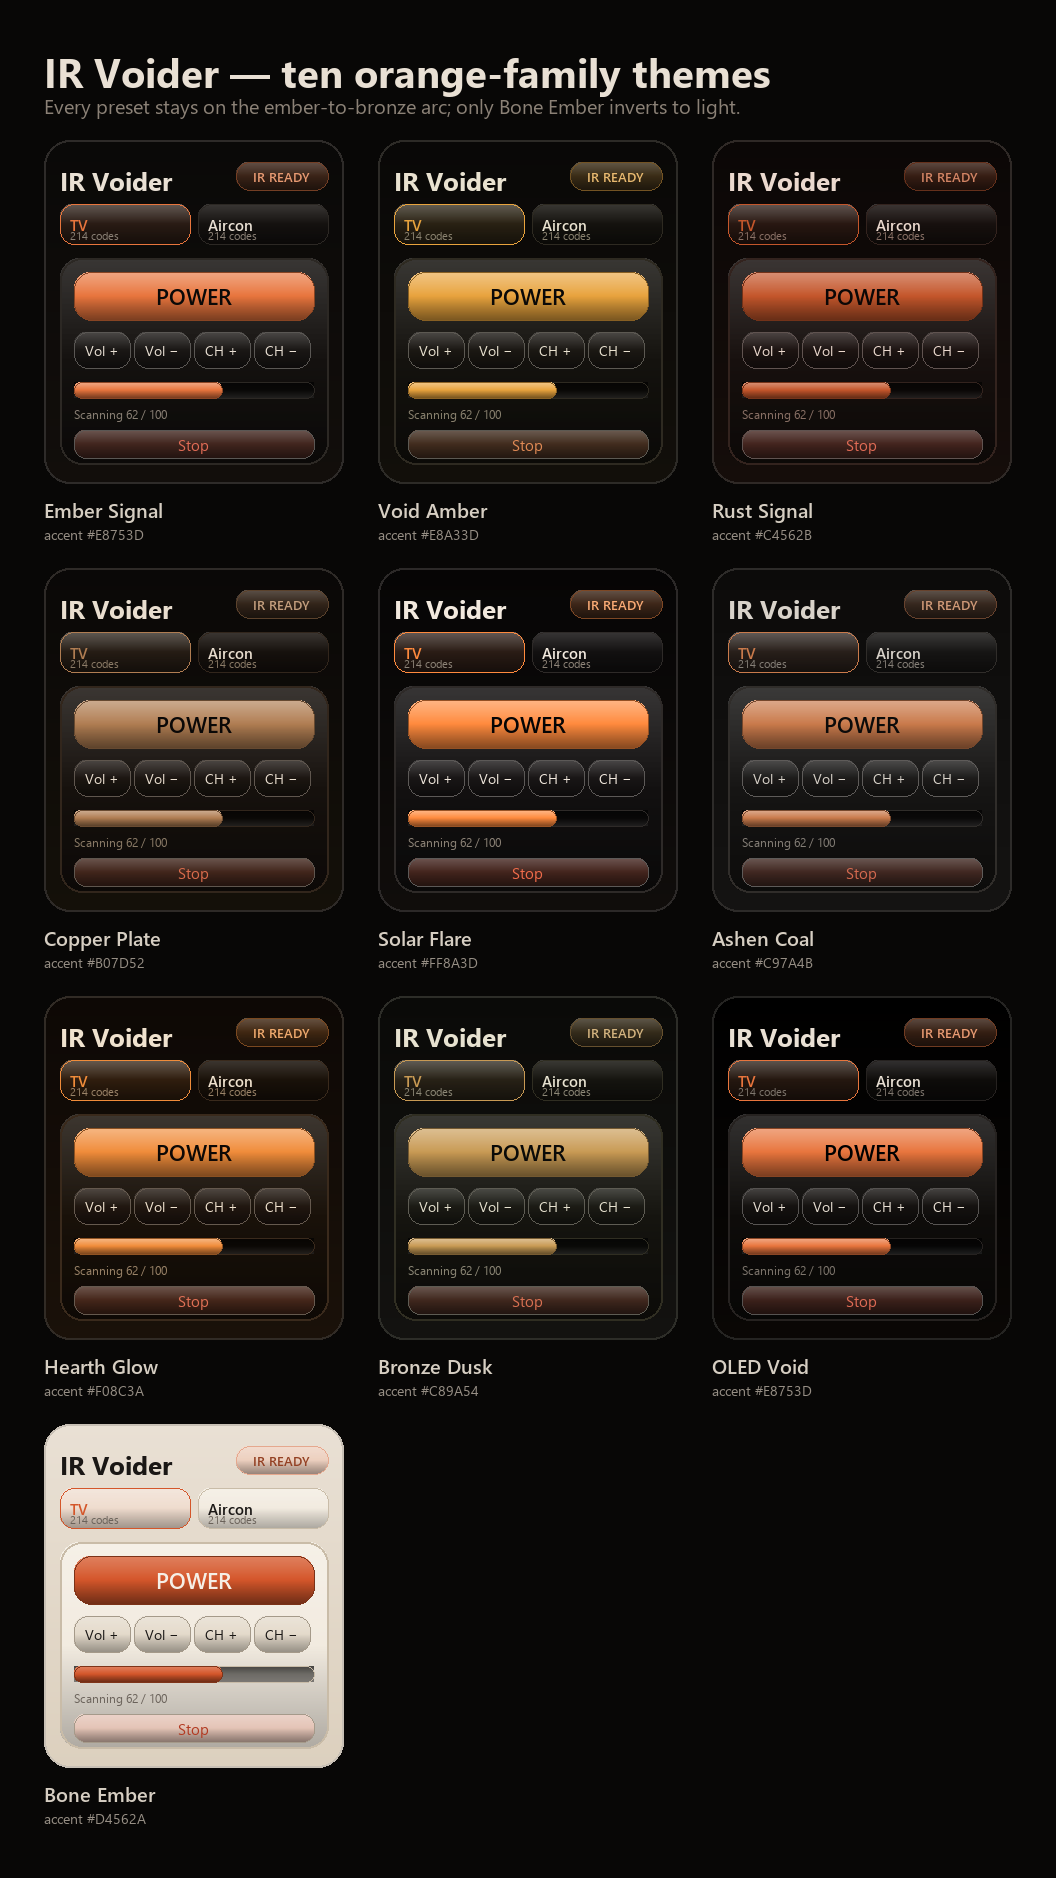
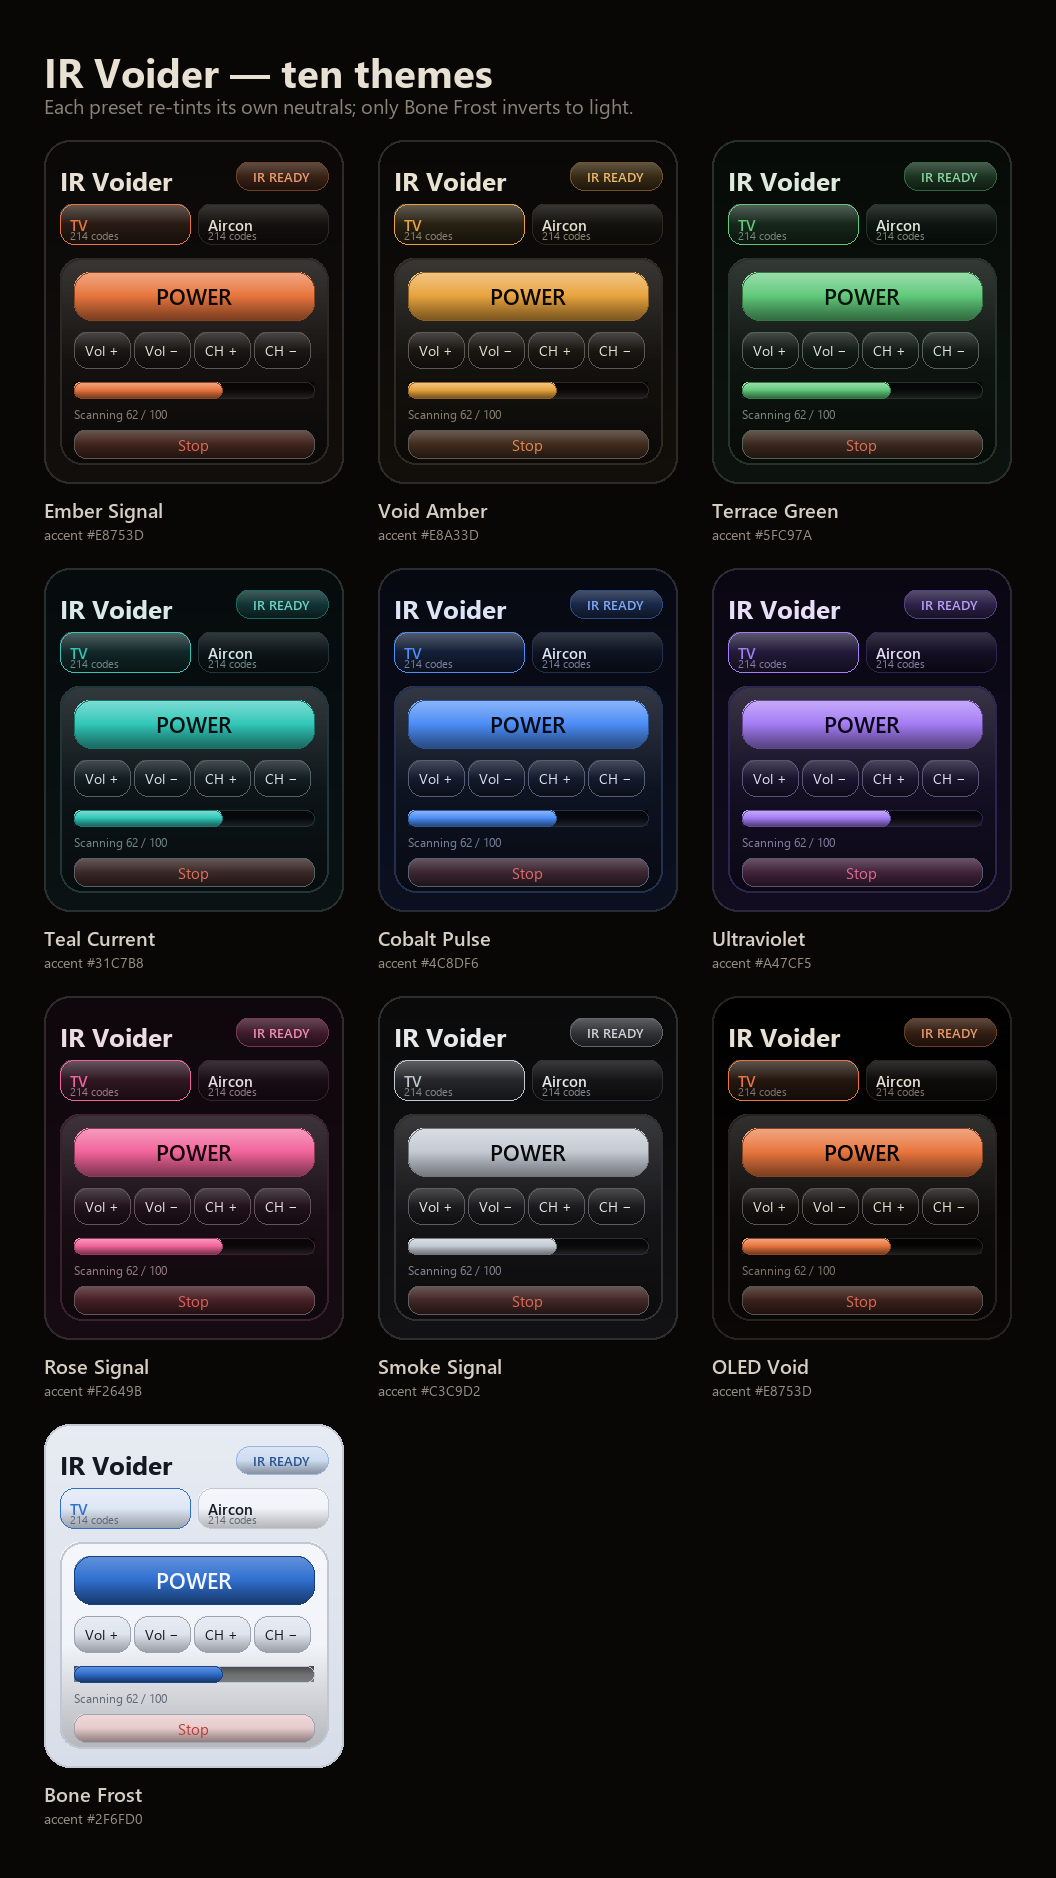
feat: spread the ten themes across colours, not just orange
Ten ember variants read as one theme with the brightness nudged. Each preset now
owns a hue and its matching neutrals, so a blue accent sits on blue-black cards
instead of a warm card with a cold button. Bone Frost is the light variant, so
AppTheme.Light follows it rather than the old warm bone.

diff --git a/app/src/main/java/com/kylem/remote/Palette.java b/app/src/main/java/com/kylem/remote/Palette.java
@@ -13,8 +13,8 @@ import android.view.Window;
 import android.view.WindowInsetsController;
 
 /**
- * The ten orange-family themes. Every preset keeps its neutrals warm and its accent somewhere on
- * the ember-to-bronze arc, so switching themes never leaves the app's identity.
+ * The ten themes. Each one carries its own neutrals, so a blue accent sits on blue-black
+ * surfaces rather than on a warm card with a cold button. Ember Signal stays the default.
  */
 public final class Palette {
 
@@ -29,38 +29,38 @@ public final class Palette {
                     0xFF090807, 0xFF120F0A, 0xFF14120E, 0xFF1B1813, 0xFF2E2A21,
                     0xFFE8A33D, 0xFFB58443, 0xFFE9E2D0, 0xFF8B8370,
                     0xFFE08A55, 0xFFAEC48A, 0xFF0A0908),
-            new Palette("Rust Signal",
-                    0xFF0B0706, 0xFF150D0A, 0xFF17100E, 0xFF1D1412, 0xFF33231E,
-                    0xFFC4562B, 0xFF8E4526, 0xFFEBD9CE, 0xFF8A7166,
-                    0xFFE06B55, 0xFFB7C48A, 0xFF0B0706),
-            new Palette("Copper Plate",
-                    0xFF0A0807, 0xFF141009, 0xFF16110D, 0xFF1C1611, 0xFF32261C,
-                    0xFFB07D52, 0xFFD9A268, 0xFFE9DECF, 0xFF8B7B67,
-                    0xFFD96B4B, 0xFFB7BE8A, 0xFF0A0807),
-            new Palette("Solar Flare",
-                    0xFF060505, 0xFF100D0B, 0xFF121010, 0xFF191616, 0xFF2E2A28,
-                    0xFFFF8A3D, 0xFFFFB067, 0xFFF2E9DE, 0xFF8E8478,
-                    0xFFF06B4A, 0xFFB7C48A, 0xFF060505),
-            new Palette("Ashen Coal",
-                    0xFF0C0B0A, 0xFF141312, 0xFF161514, 0xFF1D1B1A, 0xFF302D2A,
-                    0xFFC97A4B, 0xFF9A6A45, 0xFFD9D3CA, 0xFF857F77,
-                    0xFFD4694F, 0xFFA9B582, 0xFF0C0B0A),
-            new Palette("Hearth Glow",
-                    0xFF0D0805, 0xFF1A1109, 0xFF191109, 0xFF211710, 0xFF3A2A1C,
-                    0xFFF08C3A, 0xFFC9702E, 0xFFF0E2CE, 0xFF9A8368,
-                    0xFFE07055, 0xFFBCC48A, 0xFF0D0805),
-            new Palette("Bronze Dusk",
-                    0xFF0A0A08, 0xFF131210, 0xFF15140F, 0xFF1C1B15, 0xFF302E22,
-                    0xFFC89A54, 0xFFE0B472, 0xFFE7E2D0, 0xFF8C8776,
-                    0xFFD97052, 0xFFB2C086, 0xFF0A0A08),
+            new Palette("Terrace Green",
+                    0xFF070B08, 0xFF0C130E, 0xFF0E1510, 0xFF141D17, 0xFF243528,
+                    0xFF5FC97A, 0xFF3E9E62, 0xFFDCE9DC, 0xFF75897A,
+                    0xFFE0705A, 0xFF9BD48F, 0xFF07130B),
+            new Palette("Teal Current",
+                    0xFF060B0C, 0xFF0A1214, 0xFF0D1518, 0xFF131E22, 0xFF21363B,
+                    0xFF31C7B8, 0xFF2A9E97, 0xFFD8E9E8, 0xFF70898C,
+                    0xFFE0705A, 0xFF8FD4A0, 0xFF04100F),
+            new Palette("Cobalt Pulse",
+                    0xFF070911, 0xFF0B1020, 0xFF0E1322, 0xFF141B2E, 0xFF24304F,
+                    0xFF4C8DF6, 0xFF7FA8E8, 0xFFDDE4F5, 0xFF7783A0,
+                    0xFFE06B6B, 0xFF8FD48F, 0xFF060A14),
+            new Palette("Ultraviolet",
+                    0xFF0A0713, 0xFF110C1F, 0xFF140F24, 0xFF1B1530, 0xFF2E2450,
+                    0xFFA47CF5, 0xFF7E5BD0, 0xFFE6DFF7, 0xFF857CA0,
+                    0xFFE06B8F, 0xFF9BD48F, 0xFF0B0716),
+            new Palette("Rose Signal",
+                    0xFF0E070B, 0xFF170B12, 0xFF1A0E15, 0xFF23131C, 0xFF3B2030,
+                    0xFFF2649B, 0xFFC25A86, 0xFFEDDCE3, 0xFF9A7A87,
+                    0xFFE0605A, 0xFF9BD48F, 0xFF140409),
+            new Palette("Smoke Signal",
+                    0xFF0A0A0B, 0xFF121214, 0xFF151517, 0xFF1C1C1F, 0xFF2F2F34,
+                    0xFFC3C9D2, 0xFF8C93A0, 0xFFE7E8EA, 0xFF84868C,
+                    0xFFE06B55, 0xFF9BD48F, 0xFF0A0A0B),
             new Palette("OLED Void",
                     0xFF000000, 0xFF0A0705, 0xFF0E0C0A, 0xFF151210, 0xFF262220,
                     0xFFE8753D, 0xFFB07D52, 0xFFE9E0D4, 0xFF7E766D,
                     0xFFE06B55, 0xFFB7C48A, 0xFF000000),
-            new Palette("Bone Ember",
-                    0xFFE9E0D4, 0xFFDCD0BE, 0xFFF2EBE0, 0xFFE4DACB, 0xFFC9BCA8,
-                    0xFFD4562A, 0xFFA9682F, 0xFF1A1715, 0xFF6A625A,
-                    0xFFB23A22, 0xFF5F7A3A, 0xFFF5EFE6),
+            new Palette("Bone Frost",
+                    0xFFE7EBF2, 0xFFD8DEE9, 0xFFF1F4F9, 0xFFDFE5EF, 0xFFC0C8D6,
+                    0xFF2F6FD0, 0xFF5D8BD8, 0xFF141821, 0xFF5E6674,
+                    0xFFC23A2E, 0xFF3F7A3A, 0xFFF4F7FC),
     };
 
     public final String name;

diff --git a/tools/make_theme_sheet.py b/tools/make_theme_sheet.py
@@ -20,30 +20,30 @@ PRESETS = [
     ("Void Amber", (9, 8, 7), (18, 15, 10), (20, 18, 14), (27, 24, 19), (46, 42, 33),
      (232, 163, 61), (181, 132, 67), (233, 226, 208), (139, 131, 112), (224, 138, 85),
      (174, 196, 138), (10, 9, 8)),
-    ("Rust Signal", (11, 7, 6), (21, 13, 10), (23, 16, 14), (29, 20, 18), (51, 35, 30),
-     (196, 86, 43), (142, 69, 38), (235, 217, 206), (138, 113, 102), (224, 107, 85),
-     (183, 196, 138), (11, 7, 6)),
-    ("Copper Plate", (10, 8, 7), (20, 16, 9), (22, 17, 13), (28, 22, 17), (50, 38, 28),
-     (176, 125, 82), (217, 162, 104), (233, 222, 207), (139, 123, 103), (217, 107, 75),
-     (183, 190, 138), (10, 8, 7)),
-    ("Solar Flare", (6, 5, 5), (16, 13, 11), (18, 16, 16), (25, 22, 22), (46, 42, 40),
-     (255, 138, 61), (255, 176, 103), (242, 233, 222), (142, 132, 120), (240, 107, 74),
-     (183, 196, 138), (6, 5, 5)),
-    ("Ashen Coal", (12, 11, 10), (20, 19, 18), (22, 21, 20), (29, 27, 26), (48, 45, 42),
-     (201, 122, 75), (154, 106, 69), (217, 211, 202), (133, 127, 119), (212, 105, 79),
-     (169, 181, 130), (12, 11, 10)),
-    ("Hearth Glow", (13, 8, 5), (26, 17, 9), (25, 17, 9), (33, 23, 16), (58, 42, 28),
-     (240, 140, 58), (201, 112, 46), (240, 226, 206), (154, 131, 104), (224, 112, 85),
-     (188, 196, 138), (13, 8, 5)),
-    ("Bronze Dusk", (10, 10, 8), (19, 18, 16), (21, 20, 15), (28, 27, 21), (48, 46, 34),
-     (200, 154, 84), (224, 180, 114), (231, 226, 208), (140, 135, 118), (217, 112, 82),
-     (178, 192, 134), (10, 10, 8)),
+    ("Terrace Green", (7, 11, 8), (12, 19, 14), (14, 21, 16), (20, 29, 23), (36, 53, 40),
+     (95, 201, 122), (62, 158, 98), (220, 233, 220), (117, 137, 122), (224, 112, 90),
+     (155, 212, 143), (7, 19, 11)),
+    ("Teal Current", (6, 11, 12), (10, 18, 20), (13, 21, 24), (19, 30, 34), (33, 54, 59),
+     (49, 199, 184), (42, 158, 151), (216, 233, 232), (112, 137, 140), (224, 112, 90),
+     (143, 212, 160), (4, 16, 15)),
+    ("Cobalt Pulse", (7, 9, 17), (11, 16, 32), (14, 19, 34), (20, 27, 46), (36, 48, 79),
+     (76, 141, 246), (127, 168, 232), (221, 228, 245), (119, 131, 160), (224, 107, 107),
+     (143, 212, 143), (6, 10, 20)),
+    ("Ultraviolet", (10, 7, 19), (17, 12, 31), (20, 15, 36), (27, 21, 48), (46, 36, 80),
+     (164, 124, 245), (126, 91, 208), (230, 223, 247), (133, 124, 160), (224, 107, 143),
+     (155, 212, 143), (11, 7, 22)),
+    ("Rose Signal", (14, 7, 11), (23, 11, 18), (26, 14, 21), (35, 19, 28), (59, 32, 48),
+     (242, 100, 155), (194, 90, 134), (237, 220, 227), (154, 122, 135), (224, 96, 90),
+     (155, 212, 143), (20, 4, 9)),
+    ("Smoke Signal", (10, 10, 11), (18, 18, 20), (21, 21, 23), (28, 28, 31), (47, 47, 52),
+     (195, 201, 210), (140, 147, 160), (231, 232, 234), (132, 134, 140), (224, 107, 85),
+     (155, 212, 143), (10, 10, 11)),
     ("OLED Void", (0, 0, 0), (10, 7, 5), (14, 12, 10), (21, 18, 16), (38, 34, 32),
      (232, 117, 61), (176, 125, 82), (233, 224, 212), (126, 118, 109), (224, 107, 85),
      (183, 196, 138), (0, 0, 0)),
-    ("Bone Ember", (233, 224, 212), (220, 208, 190), (242, 235, 224), (228, 218, 203),
-     (201, 188, 168), (212, 86, 42), (169, 104, 47), (26, 23, 21), (106, 98, 90),
-     (178, 58, 34), (95, 122, 58), (245, 239, 230)),
+    ("Bone Frost", (231, 235, 242), (216, 222, 233), (241, 244, 249), (223, 229, 239),
+     (192, 200, 214), (47, 111, 208), (93, 139, 216), (20, 24, 33), (94, 102, 116),
+     (194, 58, 46), (63, 122, 58), (244, 247, 252)),
 ]
 
 WHITE = (255, 255, 255)
@@ -183,10 +183,10 @@ def main():
     H = margin * 2 + header + gy * th + (gy - 1) * gap_y + 66
     img = Image.new("RGB", (W, H), (8, 7, 6))
     draw = ImageDraw.Draw(img)
-    draw.text((margin, margin), "IR Voider \u2014 ten orange-family themes",
+    draw.text((margin, margin), "IR Voider \u2014 ten themes",
               font=font(F_BLACK, 40), fill=(233, 224, 212))
     draw.text((margin, margin + 48),
-              "Every preset stays on the ember-to-bronze arc; only Bone Ember inverts to light.",
+              "Each preset re-tints its own neutrals; only Bone Frost inverts to light.",
               font=font(F_REG, 20), fill=(139, 129, 118))
     for i, p in enumerate(PRESETS):
         col, row = i % gx, i // gx

diff --git a/README.md b/README.md
@@ -48,7 +48,8 @@ this repository's Releases.
 - Searchable brands; scanner with **Last 5** history, Previous/Pause/Stop, and a
   confirmation before an all-brand scan.
 - Saved devices with custom names, IR boost / **Force mode**, diagnostics.
-- **Ten orange-family themes** — pick one under **≡ More → Appearance**.
+- **Ten themes** (orange, gold, green, teal, blue, violet, rose, silver, black, light)
+  — pick one under **≡ More → Appearance**.
 - Air-conditioner temperature, mode, fan and swing where the profile supports it.
 - Import raw `.ir` captures as learned remotes.
 - **IR override** for phones that report NO IR despite having an emitter.
@@ -62,18 +63,21 @@ its protocol is not in the database; a raw `.ir` capture can add your own button
 
 Nothing in the app is a flat fill. Buttons, cards, chips, the scanner track and
 the bottom sheet are shaded plates — lit top rim, body gradient, contact shadow —
-drawn in code, and they sink under a press. Ten presets move the accent along the
-ember-to-bronze arc; layout, type and warm neutrals never change.
+drawn in code, and they sink under a press.
+
+Ten themes re-colour all of it, and each brings its own neutrals, so a blue accent
+sits on blue-black surfaces instead of a warm card with a cold button: **Ember
+Signal** (orange), **Void Amber** (gold), **Terrace Green**, **Teal Current**,
+**Cobalt Pulse**, **Ultraviolet**, **Rose Signal**, **Smoke Signal** (silver),
+**OLED Void** (true black for AMOLED) and **Bone Frost** — the light one, for
+daylight. The layout, type and control positions never change.
 
 **≡ More → Appearance** switches themes instantly. Saved devices, IR settings and
 scanner history are untouched, and the choice is remembered on the phone.
 
 <p align="center">
-  <img src="docs/images/themes.png" alt="The ten orange-family themes: Ember Signal, Void Amber, Rust Signal, Copper Plate, Solar Flare, Ashen Coal, Hearth Glow, Bronze Dusk, OLED Void and Bone Ember" width="100%">
+  <img src="docs/images/themes.png" alt="The ten themes: Ember Signal, Void Amber, Terrace Green, Teal Current, Cobalt Pulse, Ultraviolet, Rose Signal, Smoke Signal, OLED Void and Bone Frost" width="100%">
 </p>
-
-Nine run dark; **Bone Ember** inverts to a warm light surface for daylight, and
-**OLED Void** drops the background to true black.
 
 ## How IR works — and the limits
 
